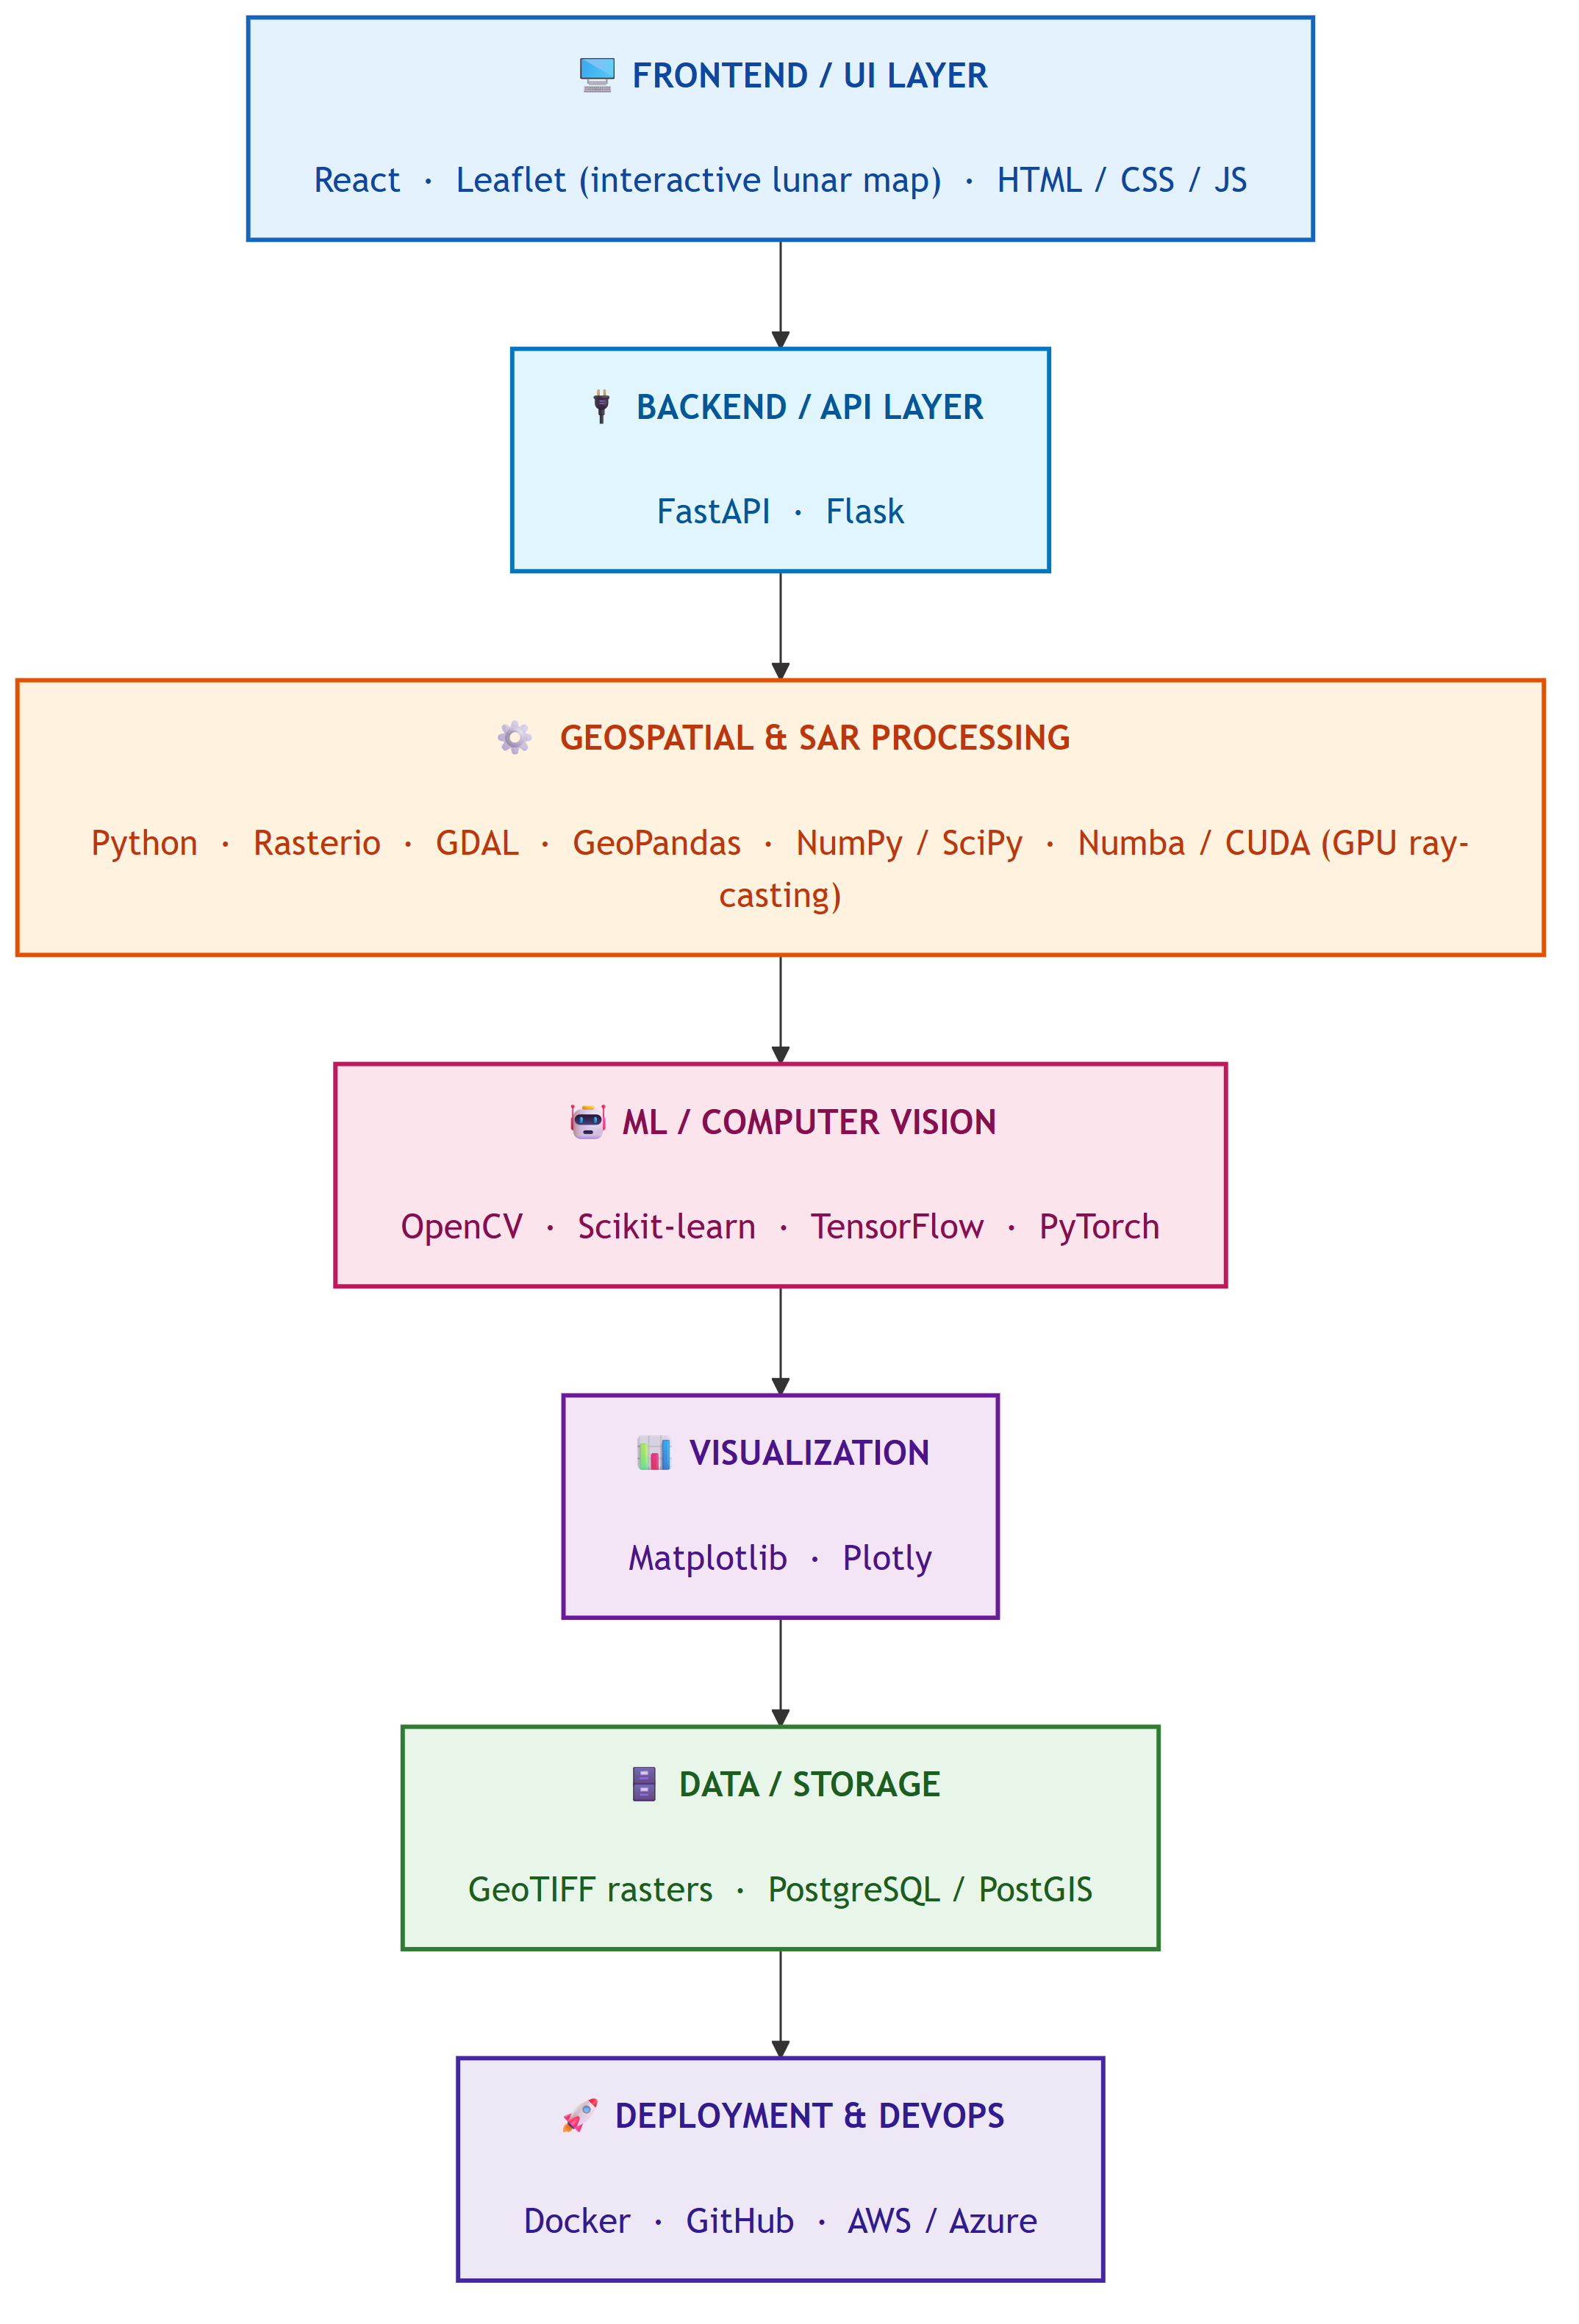
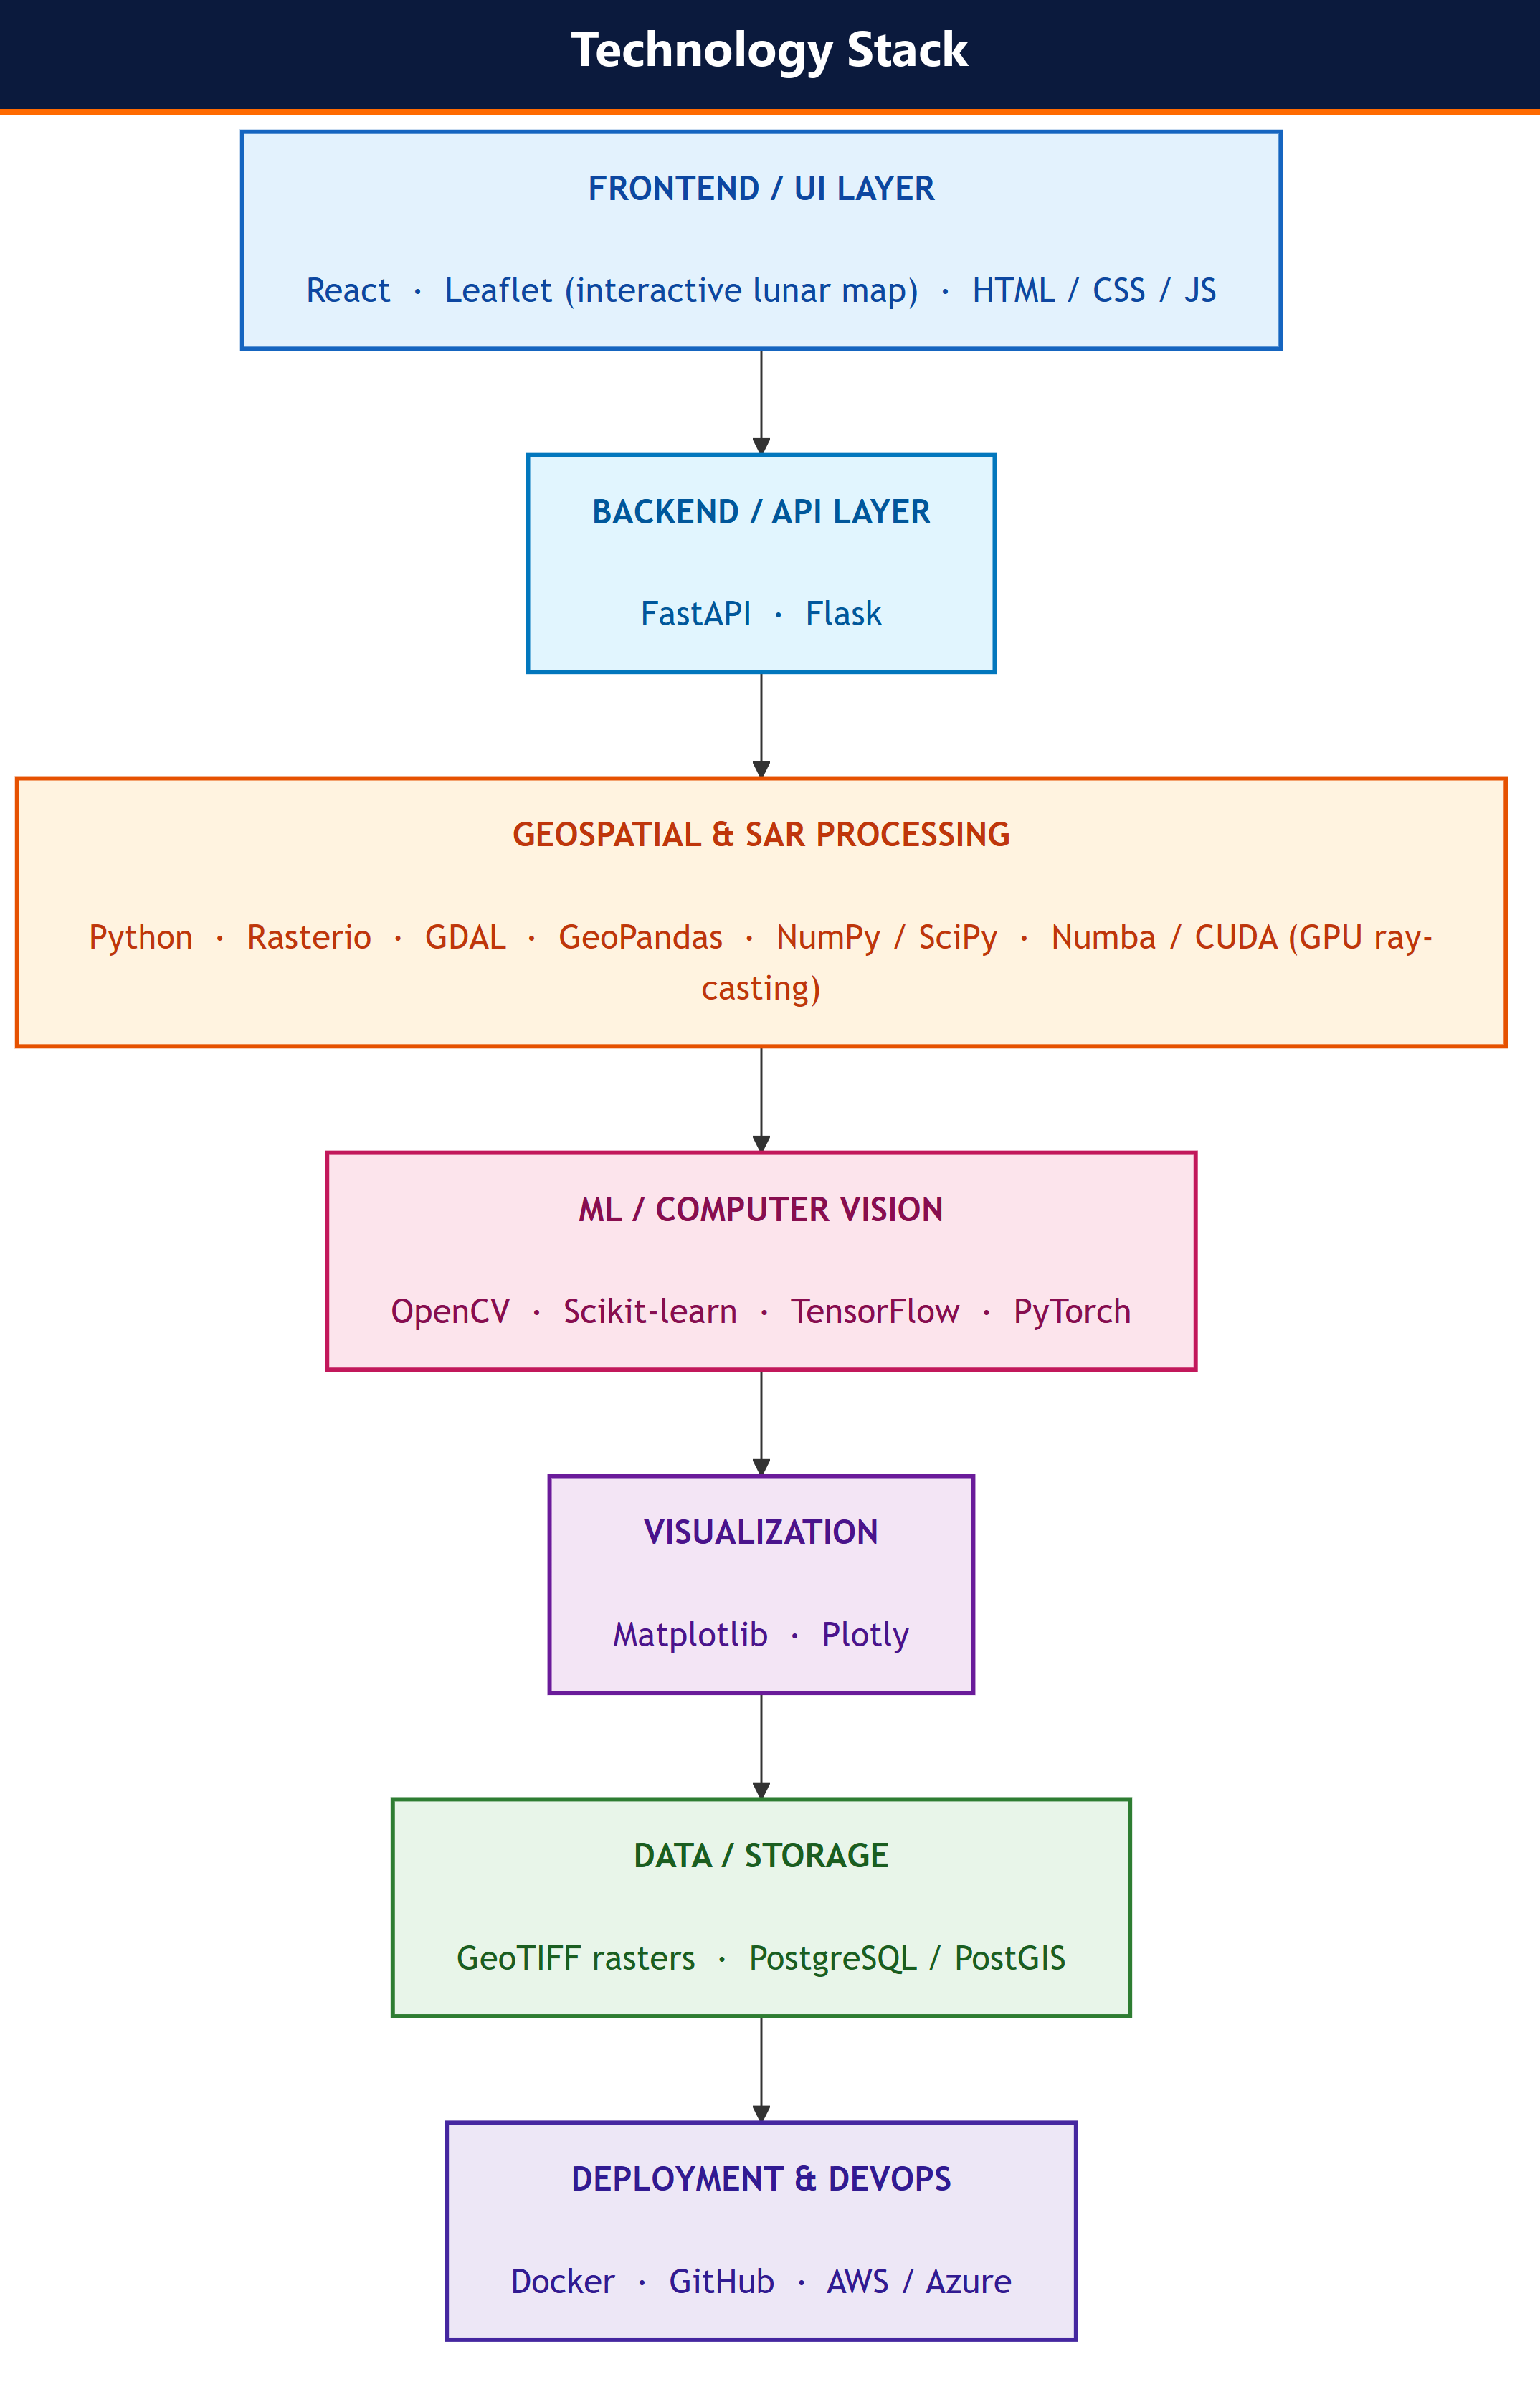
fixed project wireframes

Changed region(s): [[0.0, 0.0, 1.0, 0.9608], [0.2495, 0.7438, 0.2807, 0.7748]]

diff --git a/PROJECT_REPORT.md b/PROJECT_REPORT.md
@@ -1,3 +1,9 @@
+> ### 🔗 **[▶ VIEW PROJECT DRIVE — Full Materials / Demo](https://drive.google.com/file/d/1ArJ46b1K0kKLbFitsdQhV43AZ7-KI_E3/view?usp=drive_link)**
+>
+> **https://drive.google.com/file/d/1ArJ46b1K0kKLbFitsdQhV43AZ7-KI_E3/view?usp=drive_link**
+
+---
+
 # Multi-Sensor Detection of Water-Ice Stability Zones at the Lunar South Pole
 
 ### A Physics-Based Fusion of Topographic Shadow Modelling, Chandrayaan-2 DFSAR Radar Polarimetry, and LRO Diviner Thermal Data